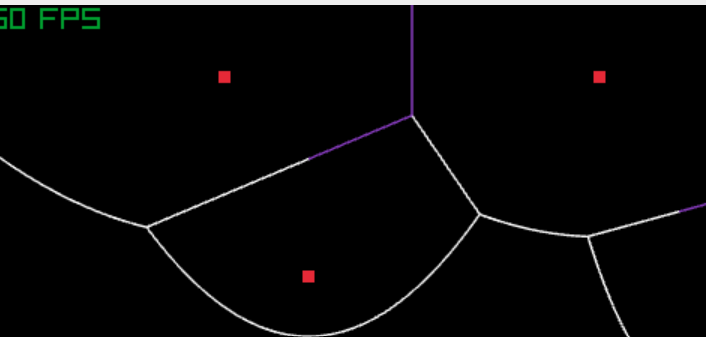
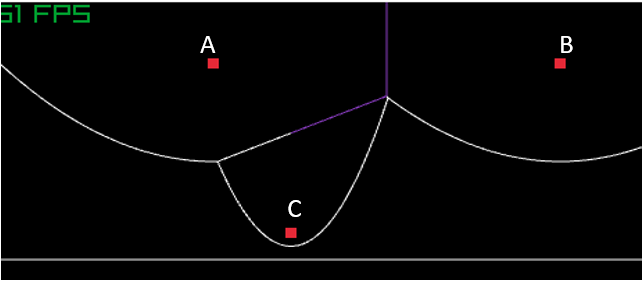
a

diff --git a/src/exemplo.md b/src/exemplo.md
@@ -70,11 +70,10 @@ Ao adicionarmos dois sítios recém varridos na figura original obtemos a seguin
 
 ![Questao3](q3gab.png)
 
-A imagem acima faz sentido uma vez que por possuir três pontos será necessário a existência de três regiões de influência. Para casos de diagramas de voronoi com três ou mais regiões de influência, é possível a ocorrência de uma intersecção entre três ou mais áreas em apenas um ponto. Esse ponto é chamado de *Vértice de Voronoi*, esse que aparece como um circulo vermelho na imagem acima. 
-\
-\
+A imagem acima faz sentido, uma vez que por possuir três pontos será necessário a existência de três regiões de influência. Para casos de diagramas de voronoi com três ou mais regiões de influência, é possível a ocorrência de uma intersecção entre três ou mais áreas em apenas um ponto. Esse ponto é chamado de *Vértice de Voronoi*, esse que aparece como um circulo vermelho na imagem acima. 
 
-Como dito anteriormente, um Vértice de Voronoi se encontra no local onde há a intersecção de três ou mais áreas de influência, e por ele estar situado nessa intersecção ele possui uma característica peculiar: a distância dele para os sítios das áreas onde ocorrem a intersecção é igual. Ou seja, tomando com exemplo a figura acima e atribuindo aos três sítios as seguintes variáveis (A,B,C) e ao Vértice de Voronoi (V), sabemos que a $\overrightarrow{AV} = \overrightarrow{BV} = \overrightarrow{CV}$.
+
+Como dito anteriormente, um Vértice de Voronoi se encontra no local onde há a intersecção de três ou mais áreas de influência, e por ele estar situado nessa intersecção ele possui uma característica peculiar: a distância dele para os sítios das áreas onde ocorrem a intersecção é igual. Ou seja, tomando como exemplo a figura acima e atribuindo aos três sítios as seguintes variáveis (A,B,C) e ao Vértice de Voronoi (V), sabemos que a $\overrightarrow{AV} = \overrightarrow{BV} = \overrightarrow{CV}$.
 \
 \
 Além do mais, o que aconteceria se continuássemos adicionando sítios sob a Linha de Varredura? A imagem a seguir nos mostra a resposta uma resposta para 8 sítos:
@@ -82,32 +81,32 @@ Além do mais, o que aconteceria se continuássemos adicionando sítios sob a Li
 ![Questao4](q4.png)
 
 ???Exercicio 3
-A partir da imagem anterior, é possível perceber um padrão formado pelos Vértices de Voronoi. Considerando infinitos sítos recém varridos qual figura é esperada-se que o padrão forme? Podemos relacionar esses sítios infinitamente distribuidos sob a reta por um conceito já aprendido ?
+A partir da imagem anterior, é possível perceber um padrão formado pelos Vértices de Voronoi. Considerando infinitos sítos recém varridos qual figura espera-se que o padrão forme? Podemos relacionar esses sítios infinitamente distribuidos sob a reta por um conceito já aprendido ?
 
 :::Gabarito
 O padrão visto deverá criar uma parábola. Sim, a distribuição desses infinitos sítios formam uma reta paralela com o eixo x, já que todos tem a mesma altura. Como todos eles incidem sob a Linha de Varredura eles são equivalentes a mesma.
 :::
 ???
 
-Dessa maneira, a área que essa parábola engloba serve como uma estimativa da área de influência de um único sítio em relação à posição da linha de varredura,desse modo, a parábola acaba por mostrar a região dos pontos que estão mais próximos do sítio que da Linha de Varredura. Valendo apena ressaltar que essa região de influência estimada da parábola pode mudar com o tempo. Essa asserção nos leva ao primeiro evento do nosso algoritmo. 
+Dessa maneira, a área que essa parábola engloba serve como uma estimativa da área de influência de um único sítio em relação à posição da linha de varredura, desse modo, a parábola acaba por mostrar a região dos pontos que estão mais próximos do sítio que da Linha de Varredura. Valendo apena ressaltar que essa região de influência estimada da parábola pode mudar com o tempo. Essa asserção nos leva ao primeiro evento do nosso algoritmo. 
 
 
 ## Evento de Inserção
 
-O evento de inserção ocorre quando Linha de Varredura encontra um sítio. Ao sítios ser escaneado ocorre a inserção de uma parábola (arco), essa parábola é a mesma que vimos anteriormente, ou seja, delinea a região de pontos que estão mais próximos do sítio do que da Linha de Varredura, isso faz com que a área da parábola aumente com o distanciamento da linha após o evento. Isso pode ser visto a partir das imagens simplificadas abaixo:
+O evento de inserção ocorre quando a Linha de Varredura encontra um sítio. Quando um sítio é escaneado, ocorre a inserção de uma parábola (arco). Essa parábola é a mesma que vimos anteriormente, ou seja, delinea a região de pontos que estão mais próximos a esse sítio do que à Linha de Varredura. Isso faz com que a área da parábola aumente com o distanciamento da linha após o evento. Isso pode ser visto a partir das imagens simplificadas abaixo:
 
 :insertion1
 
 **OBS: A Imagem acima é apenas uma aproximação não contendo proporções exatas**
 
-Agora que entendemos o evento de inserção imagine que dois sítios tenham sido captados por esses eventos, como vimos com o distanciamento gradativo da Linha as parábolas deles irão aumentar, assumindo que eles são próximos um do outro o é provável de acontecer quando a Linha de Varredura está distante desses sítios? **Uma Intersecão!**. Isso nos leva ao questionameto abaixo:
+Agora que entendemos o evento de inserção, imagine que dois sítios tenham sido captados por esses eventos. Conforme vimos, com o distanciamento gradativo da Linha, as parábolas deles irão aumentar. Assumindo que eles são próximos um do outro, o que é provável de acontecer quando a Linha de Varredura está distante desses sítios? **Uma intersecção!** Isso nos leva ao questionamento abaixo.:
 
 ???Exercicio 4
-Com o distanciamento gradativo da Linha de Varredura o que representaria dois arcos se intersectando?
+Com o distanciamento gradativo da Linha de Varredura que conceito é gerado no exato momento de intersecção entre dois arcos?
 
 **OBS: Lembre que os arcos são uma aproximação da região de influência de um sítio**
 :::Gabarito
-Ocorreria uma divisão, o ponto de intersecção das equações dos arcos em um momento qualquer divide as áreas de influência entre os sítios  das respectivas parábolas , ou seja, esses pontos acúmulados conforme a Linha de Varredura passam a formar uma das parte da divisa das regiões de influência. 
+Uma divisão. O ponto de intersecção das equações dos arcos em um momento qualquer divide as áreas de influência entre os sítios das respectivas parábolas, ou seja, esses pontos acumulados conforme a Linha de Varredura passa, formam uma das partes da divisão das regiões de influência.
 :::
 ???
 
@@ -121,7 +120,7 @@ Como visto anteriormente, os arcos são uma aproximação da região de influên
 
 ???Exercicio 5
 
-Como visto se a intersecção de dois arcos determina um ponto de uma Aresta de Voronoi, qual conceito aprendido é possível relacionar com essa situação?
+Como mencionado anteriormente, se a intersecção de dois arcos determina um ponto de uma Aresta de Voronoi, com qual conceito aprendido é possível relacionar essa situação?
 
 **OBS: Lembre que os arcos são uma aproximação da região de influência de um sítio**
 
@@ -142,22 +141,22 @@ Para transformar os pontos em um polígono basta apenas conectá-los conforme a 
 
 ![Poli](polig2.png)
 
-E para obtermos como montar o polígono quais informações utilizamos? **Apenas os Vértices do Polígono**. Sendo assim, esse é o "pulo do gato" precisamos saber apenas os vértices de voronoi para desenhar o diagrama.
+E para montarmos o polígono quais informações utilizamos? **Apenas os Vértices do Polígono**. Sendo assim, esse é o "pulo do gato" precisamos saber apenas os vértices de voronoi para desenhar o diagrama.
 
 
 
 Então prosseguindo, depois de pelo menos dois eventos de inserção precisamos descobrir se há Vértices de Voronoi no diagrama e suas exatas posições. Isso também lembra algo familiar? Pois é porque lembra mesmo, o momento que um Vértice de Voronoi se forma é exatamente na intersecção de três parábolas distintas. 
 
-Utilizando a figura abaixo deve haver alguma maneira mais simples de descobrir o vértice do que checar todas as possíveis combinações de arco e checar exatamente a posição onde as três se encaixam. 
+Ao utilizar a figura abaixo, é possível encontrar uma maneira mais simples de descobrir o vértice em vez de verificar todas as possíveis combinações de arcos e identificar exatamente a posição onde as três parábolas se encaixam.
 
 ???Exercicio 6
 
-Lembrando a propriedade de que um Vértice de Voronoi possui a mesma distância para os sítios das áreas em que ocorre a intersecção, existe alguma figura geometrica que podemos relacionar?
+Lembrando a propriedade de que um Vértice de Voronoi possui a mesma distância para os sítios das áreas envolvidas no evento de intersecção, existe alguma figura geométrica com a qual possamos relacionar isso?
 
 **Dica: Qual figura tem um centro que todos os pontos possuem a mesma distância dela?**
 
 :::Gabarito
-É um circulo sendo que o centro é o Vértice de Voronoi, e os sítios estão na circunferência dele.
+É um circulo. Sendo que o centro é o Vértice de Voronoi, e os sítios envolvidos no evento estão na circunferência dele.
 :::
 ???
 
@@ -165,27 +164,29 @@ A imagem abaixo demonstra a relação evidenciada anteriormente:
 
 ![Circle](circulo1.gif)
 
-Apesar de estarmos avançando ainda temos que determinar no algoritmo quando que ocorre essa intersecção. É agora que o algoritmo fica ainda mais interessante, por todos os arcos estarem em função da distância de seus respectivo sítios à Linha de Varredura, essa intersecção só é possível ocorrer quando a Linha de Varredura tangencia o Vértice, ou seja, ocorre quando o ponto com menor valor de y da circunferência incide na reta de escaneamento. Podemos ver isso a partir da seguinte figura:
+Apesar de estarmos avançando, ainda precisamos determinar no algoritmo quando ocorre essa intersecção. Agora é que o algoritmo se torna ainda mais interessante, pois todos os arcos estão em função da distância de seus respectivos sítios em relação à Linha de Varredura. Essa intersecção só é possível quando a Linha de Varredura tangencia o Vértice, ou seja, quando o ponto com menor valor de y da circunferência coincide com a reta de escaneamento. Podemos observar isso na seguinte figura:
 
 ![Circle](circle2.png)
 
-Contudo, isso não é tudo sobre o evento. Vamos observar a imagem a seguir:
+Contudo, isso não é tudo sobre o evento. Observe a sequência de imagens a seguir:
 
 :circle
 
-Podemos ver uma coisa interessante acontecendo, o ponto mais à esquerda teve sua parte direita da párabola totalmente consumida, isso ocorre por parte formar arestas e outra o vértice. Porém, a sua parte esquerda ainda continua crescendo após o evento. Isso causa a seguinte indagação: e se uma parábola for totalmente consumida como na figura abaixo?
+Podemos ver uma coisa interessante acontecendo, o ponto A teve sua parte direita da párabola totalmente consumida. Porém, a sua parte esquerda ainda continua crescendo após o evento. Isso causa a seguinte indagação: e se uma parábola for totalmente consumida como na figura abaixo?
 
-**Ela é consumida por inteira**. Como os arcos são uma aproximação da região de influência de um sítio, ela ser consumida por inteira significa que todas as aresta e pontos  do diagrama que compõe ela estão calculados, ou seja, ela não possuirá nenhum Vértice de Voronoi no futuro. 
+:consume
+
+Como os arcos são uma aproximação da região de influência de um sítio, quando um arco é consumido por inteiro significa que todas as aresta e pontos do diagrama relacionados à esse sítio estão computados. 
 
 ???Exercicio 7
-Como não haverá Vértice de Voronoi futuramente precisamos mesmo checar se o sítio cuja parábola foi consumida possui uma intersecção de três arcos no futuro? 
+Precisamos checar a ocorrência de novos eventos para um sítio cujo arco já foi consumido? 
 
 :::Gabarito
 Não, pois não haverá Vértices de Voronoi no limite da área de influência desse ponto. Sendo necessário apenas remover esse sítio da lista de eventos para não gastar poder computacional
 :::
 ???
 
-Em suma, o Evento de Círculo é um evento que sempre que há um incremento da Linha de Varredura descobre se o centro todos os arranjos de círculos criados assumindo que três sítios validos incidem em sua circunferência. Depois, de descobrir o centro necessitamos apenas descobrir se a Linha de Varredura tangencia o círculo em sua parte inferior,ou seja, dista R da reta, sendo R o raio do círculo. A partir disso, é checado se o arco de um do sítios foi consumido, se posistivo ele se torna um sítio inválido para passar pelo evento.
+Em suma, o Evento de Círculo é um evento que ocorre sempre que há um incremento da Linha de Varredura e um sítio escaneado, junto com outros dois sítios já escaneados, formam uma circunferência. Após descobrir o centro dessa circunferência, precisamos apenas verificar se a Linha de Varredura tangencia essa circunferência em sua parte inferior. A partir disso, é verificado se o arco de um dos sítios foi consumido. Se positivo, esse sítio se torna inválido para passar pelo evento.
 
 Tente fazer os seguintes exercícios:
 
@@ -210,15 +211,19 @@ Apenas a imagem três por ela ser a única em que o círculo tangencia a Linha d
 ???
 
 ???Exercicio 8
-Em quais das imagens abaixo uma parábola foi consumida por inteiro:
+Na imagem abaixo a parábola do sítio verde foi consumida por inteiro?
+
+Figura 1:
+
+![Consumo](con_ex.png)
 
 :::Gabarito
-Apenas a imagem três por ela ser a única em que o círculo tangencia a Linha de Varredura.
+Não, pois essa parábola teve apenas sua parte direita consumida pelo arco azul. Sendo assim, sua parte esquerda continua existindo e em expansão.
 :::
 ???
 ## Pseudo-Código:
 
-Juntando todas as ideias precisamos checar se ao incrementar a Linha de Varredura foi acionado algum evento, se esse não for o caso continuamos a varredua, por outro lado caso seja verdadeiro devemos analisar os eventos encontrados. Para o evento de inserção, devemos apenas adicionar o sítio a lista de sítios válidos e criar um arco. Além do mais, não podemos esquecer que precisamos guardar o Vértice de Voronoi dentro de um evento de circulo e checar se algum arco foi consumido, para retirar o sítio que possuia o arco.
+Juntando todas as ideias precisamos checar se ao incrementar a Linha de Varredura foi acionado algum evento, se esse não for o caso continuamos a varredua, por outro lado caso um ou mais eventos tenham sido acionados devemos analisar os eventos encontrados. Para o evento de inserção, devemos apenas adicionar o sítio a lista de sítios válidos e criar um arco. Além do mais, não podemos esquecer que precisamos guardar o Vértice de Voronoi dentro de um evento de circulo e checar se algum arco foi consumido, para retirar o sítio que possuía o arco da lista de sítios.
 
 ???Exercicio 9
 A partir das ideias expostas acima, tente criar a representação de um pseudocódigo.
@@ -243,3 +248,5 @@ while(Possui Eventos):
 * <https://jacquesheunis.com/post/fortunes-algorithm/>
 * <http://www.bitbanging.space/posts/voronoi-diagram-with-fortunes-algorithm>
 * <https://iq.opengenus.org/content/images/2021/11/vor29.png>
+* <https://www2.cs.sfu.ca/~binay/813.2011/Fortune.pdf>
+* <https://encrypted-tbn0.gstatic.com/images?q=tbn:ANd9GcSO4g5JgIFGFmFcV3RT9ggIj4KNJk5KEkCkRMibdGVYpYGXEFLuwZQyvqWh7yVbNGLHE5M&usqp=CAU>
